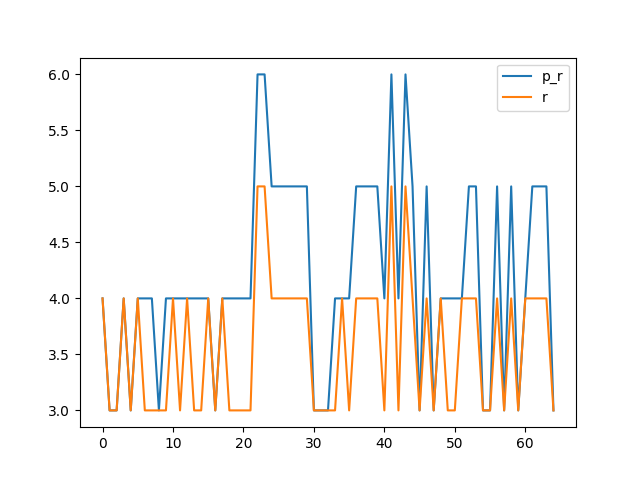
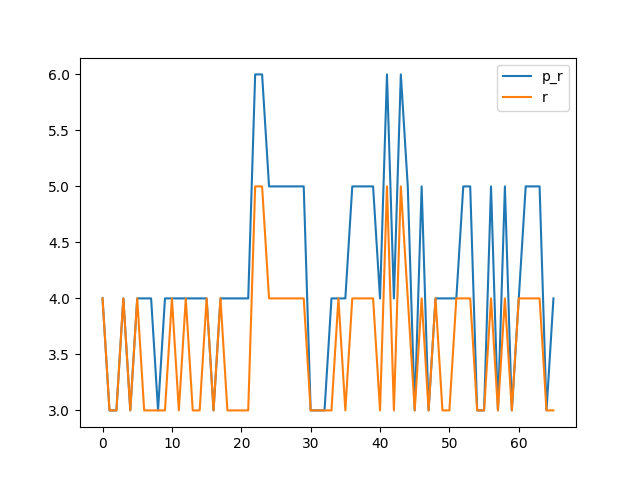
0x0041

diff --git a/benchmark.md b/benchmark.md
@@ -128,16 +128,18 @@ Synthesising 0x003F pexact:238 r=5 exact:288 r=4
 
 Synthesising 0x0040 pexact:152 r=3 exact:152 r=3
 
+Synthesising 0x0041 pexact:208 r=4 exact:224 r=3
+
 ```mermaid
 xychart-beta
     title "Comparison powertwoexact twoexact"
-    x-axis [0, 1, 2, 3, 4, 5, 6, 7, 8, 9, 10, 11, 12, 13, 14, 15, 16, 17, 18, 19, 20, 21, 22, 23, 24, 25, 26, 27, 28, 29, 30, 31, 32, 33, 34, 35, 36, 37, 38, 39, 40, 41, 42, 43, 44, 45, 46, 47, 48, 49, 50, 51, 52, 53, 54, 55, 56, 57, 58, 59, 60, 61, 62, 63, 64]
+    x-axis [0, 1, 2, 3, 4, 5, 6, 7, 8, 9, 10, 11, 12, 13, 14, 15, 16, 17, 18, 19, 20, 21, 22, 23, 24, 25, 26, 27, 28, 29, 30, 31, 32, 33, 34, 35, 36, 37, 38, 39, 40, 41, 42, 43, 44, 45, 46, 47, 48, 49, 50, 51, 52, 53, 54, 55, 56, 57, 58, 59, 60, 61, 62, 63, 64, 65]
     y-axis "Switching Activity" 0-->464
-    line [96, 152, 152, 182, 152, 182, 208, 182, 152, 208, 182, 182, 182, 182, 182, 182, 152, 182, 208, 182, 208, 182, 406, 400, 336, 310, 310, 304, 310, 304, 224, 216, 152, 208, 182, 182, 336, 310, 310, 304, 208, 406, 182, 400, 310, 224, 304, 216, 182, 182, 182, 182, 310, 304, 224, 216, 310, 224, 304, 216, 280, 326, 326, 238, 152]
-    line [192, 152, 152, 312, 152, 352, 224, 192, 192, 224, 352, 216, 320, 216, 216, 352, 152, 326, 224, 216, 224, 192, 464, 448, 352, 344, 344, 320, 336, 352, 224, 216, 192, 224, 318, 192, 352, 344, 344, 312, 224, 448, 192, 440, 344, 224, 312, 216, 320, 216, 216, 280, 344, 312, 224, 216, 344, 224, 320, 216, 344, 336, 344, 288, 152]
-    line [236.6769230769231, 236.6769230769231, 236.6769230769231, 236.6769230769231, 236.6769230769231, 236.6769230769231, 236.6769230769231, 236.6769230769231, 236.6769230769231, 236.6769230769231, 236.6769230769231, 236.6769230769231, 236.6769230769231, 236.6769230769231, 236.6769230769231, 236.6769230769231, 236.6769230769231, 236.6769230769231, 236.6769230769231, 236.6769230769231, 236.6769230769231, 236.6769230769231, 236.6769230769231, 236.6769230769231, 236.6769230769231, 236.6769230769231, 236.6769230769231, 236.6769230769231, 236.6769230769231, 236.6769230769231, 236.6769230769231, 236.6769230769231, 236.6769230769231, 236.6769230769231, 236.6769230769231, 236.6769230769231, 236.6769230769231, 236.6769230769231, 236.6769230769231, 236.6769230769231, 236.6769230769231, 236.6769230769231, 236.6769230769231, 236.6769230769231, 236.6769230769231, 236.6769230769231, 236.6769230769231, 236.6769230769231, 236.6769230769231, 236.6769230769231, 236.6769230769231, 236.6769230769231, 236.6769230769231, 236.6769230769231, 236.6769230769231, 236.6769230769231, 236.6769230769231, 236.6769230769231, 236.6769230769231, 236.6769230769231, 236.6769230769231, 236.6769230769231, 236.6769230769231, 236.6769230769231, 236.6769230769231]
-    line [275.75384615384615, 275.75384615384615, 275.75384615384615, 275.75384615384615, 275.75384615384615, 275.75384615384615, 275.75384615384615, 275.75384615384615, 275.75384615384615, 275.75384615384615, 275.75384615384615, 275.75384615384615, 275.75384615384615, 275.75384615384615, 275.75384615384615, 275.75384615384615, 275.75384615384615, 275.75384615384615, 275.75384615384615, 275.75384615384615, 275.75384615384615, 275.75384615384615, 275.75384615384615, 275.75384615384615, 275.75384615384615, 275.75384615384615, 275.75384615384615, 275.75384615384615, 275.75384615384615, 275.75384615384615, 275.75384615384615, 275.75384615384615, 275.75384615384615, 275.75384615384615, 275.75384615384615, 275.75384615384615, 275.75384615384615, 275.75384615384615, 275.75384615384615, 275.75384615384615, 275.75384615384615, 275.75384615384615, 275.75384615384615, 275.75384615384615, 275.75384615384615, 275.75384615384615, 275.75384615384615, 275.75384615384615, 275.75384615384615, 275.75384615384615, 275.75384615384615, 275.75384615384615, 275.75384615384615, 275.75384615384615, 275.75384615384615, 275.75384615384615, 275.75384615384615, 275.75384615384615, 275.75384615384615, 275.75384615384615, 275.75384615384615, 275.75384615384615, 275.75384615384615, 275.75384615384615, 275.75384615384615]
-    bar [80, 60, 60, 80, 60, 80, 80, 80, 60, 80, 80, 80, 80, 80, 80, 80, 60, 80, 80, 80, 80, 80, 120, 120, 100, 100, 100, 100, 100, 100, 60, 60, 60, 80, 80, 80, 100, 100, 100, 100, 80, 120, 80, 120, 100, 60, 100, 60, 80, 80, 80, 80, 100, 100, 60, 60, 100, 60, 100, 60, 80, 100, 100, 100, 60]
-    bar [80, 60, 60, 80, 60, 80, 60, 60, 60, 60, 80, 60, 80, 60, 60, 80, 60, 80, 60, 60, 60, 60, 100, 100, 80, 80, 80, 80, 80, 80, 60, 60, 60, 60, 80, 60, 80, 80, 80, 80, 60, 100, 60, 100, 80, 60, 80, 60, 80, 60, 60, 80, 80, 80, 60, 60, 80, 60, 80, 60, 80, 80, 80, 80, 60]
+    line [96, 152, 152, 182, 152, 182, 208, 182, 152, 208, 182, 182, 182, 182, 182, 182, 152, 182, 208, 182, 208, 182, 406, 400, 336, 310, 310, 304, 310, 304, 224, 216, 152, 208, 182, 182, 336, 310, 310, 304, 208, 406, 182, 400, 310, 224, 304, 216, 182, 182, 182, 182, 310, 304, 224, 216, 310, 224, 304, 216, 280, 326, 326, 238, 152, 208]
+    line [192, 152, 152, 312, 152, 352, 224, 192, 192, 224, 352, 216, 320, 216, 216, 352, 152, 326, 224, 216, 224, 192, 464, 448, 352, 344, 344, 320, 336, 352, 224, 216, 192, 224, 318, 192, 352, 344, 344, 312, 224, 448, 192, 440, 344, 224, 312, 216, 320, 216, 216, 280, 344, 312, 224, 216, 344, 224, 320, 216, 344, 336, 344, 288, 152, 224]
+    line [236.24242424242425, 236.24242424242425, 236.24242424242425, 236.24242424242425, 236.24242424242425, 236.24242424242425, 236.24242424242425, 236.24242424242425, 236.24242424242425, 236.24242424242425, 236.24242424242425, 236.24242424242425, 236.24242424242425, 236.24242424242425, 236.24242424242425, 236.24242424242425, 236.24242424242425, 236.24242424242425, 236.24242424242425, 236.24242424242425, 236.24242424242425, 236.24242424242425, 236.24242424242425, 236.24242424242425, 236.24242424242425, 236.24242424242425, 236.24242424242425, 236.24242424242425, 236.24242424242425, 236.24242424242425, 236.24242424242425, 236.24242424242425, 236.24242424242425, 236.24242424242425, 236.24242424242425, 236.24242424242425, 236.24242424242425, 236.24242424242425, 236.24242424242425, 236.24242424242425, 236.24242424242425, 236.24242424242425, 236.24242424242425, 236.24242424242425, 236.24242424242425, 236.24242424242425, 236.24242424242425, 236.24242424242425, 236.24242424242425, 236.24242424242425, 236.24242424242425, 236.24242424242425, 236.24242424242425, 236.24242424242425, 236.24242424242425, 236.24242424242425, 236.24242424242425, 236.24242424242425, 236.24242424242425, 236.24242424242425, 236.24242424242425, 236.24242424242425, 236.24242424242425, 236.24242424242425, 236.24242424242425, 236.24242424242425]
+    line [274.969696969697, 274.969696969697, 274.969696969697, 274.969696969697, 274.969696969697, 274.969696969697, 274.969696969697, 274.969696969697, 274.969696969697, 274.969696969697, 274.969696969697, 274.969696969697, 274.969696969697, 274.969696969697, 274.969696969697, 274.969696969697, 274.969696969697, 274.969696969697, 274.969696969697, 274.969696969697, 274.969696969697, 274.969696969697, 274.969696969697, 274.969696969697, 274.969696969697, 274.969696969697, 274.969696969697, 274.969696969697, 274.969696969697, 274.969696969697, 274.969696969697, 274.969696969697, 274.969696969697, 274.969696969697, 274.969696969697, 274.969696969697, 274.969696969697, 274.969696969697, 274.969696969697, 274.969696969697, 274.969696969697, 274.969696969697, 274.969696969697, 274.969696969697, 274.969696969697, 274.969696969697, 274.969696969697, 274.969696969697, 274.969696969697, 274.969696969697, 274.969696969697, 274.969696969697, 274.969696969697, 274.969696969697, 274.969696969697, 274.969696969697, 274.969696969697, 274.969696969697, 274.969696969697, 274.969696969697, 274.969696969697, 274.969696969697, 274.969696969697, 274.969696969697, 274.969696969697, 274.969696969697]
+    bar [80, 60, 60, 80, 60, 80, 80, 80, 60, 80, 80, 80, 80, 80, 80, 80, 60, 80, 80, 80, 80, 80, 120, 120, 100, 100, 100, 100, 100, 100, 60, 60, 60, 80, 80, 80, 100, 100, 100, 100, 80, 120, 80, 120, 100, 60, 100, 60, 80, 80, 80, 80, 100, 100, 60, 60, 100, 60, 100, 60, 80, 100, 100, 100, 60, 80]
+    bar [80, 60, 60, 80, 60, 80, 60, 60, 60, 60, 80, 60, 80, 60, 60, 80, 60, 80, 60, 60, 60, 60, 100, 100, 80, 80, 80, 80, 80, 80, 60, 60, 60, 60, 80, 60, 80, 80, 80, 80, 60, 100, 60, 100, 80, 60, 80, 60, 80, 60, 60, 80, 80, 80, 60, 60, 80, 60, 80, 60, 80, 80, 80, 80, 60, 60]
 ```
 
